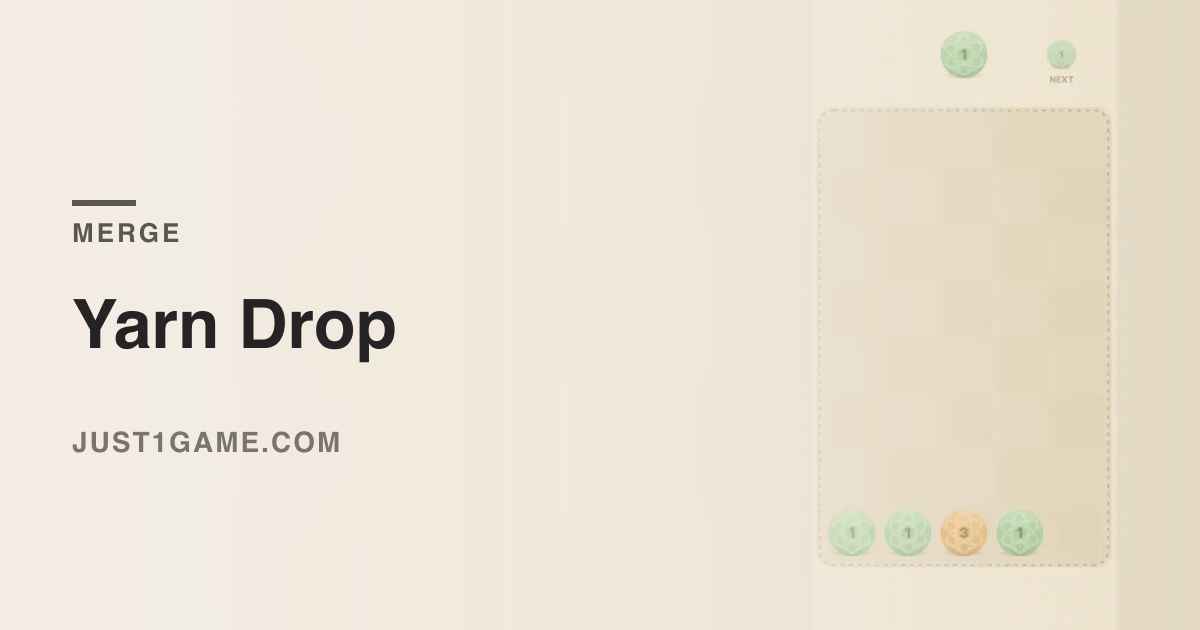
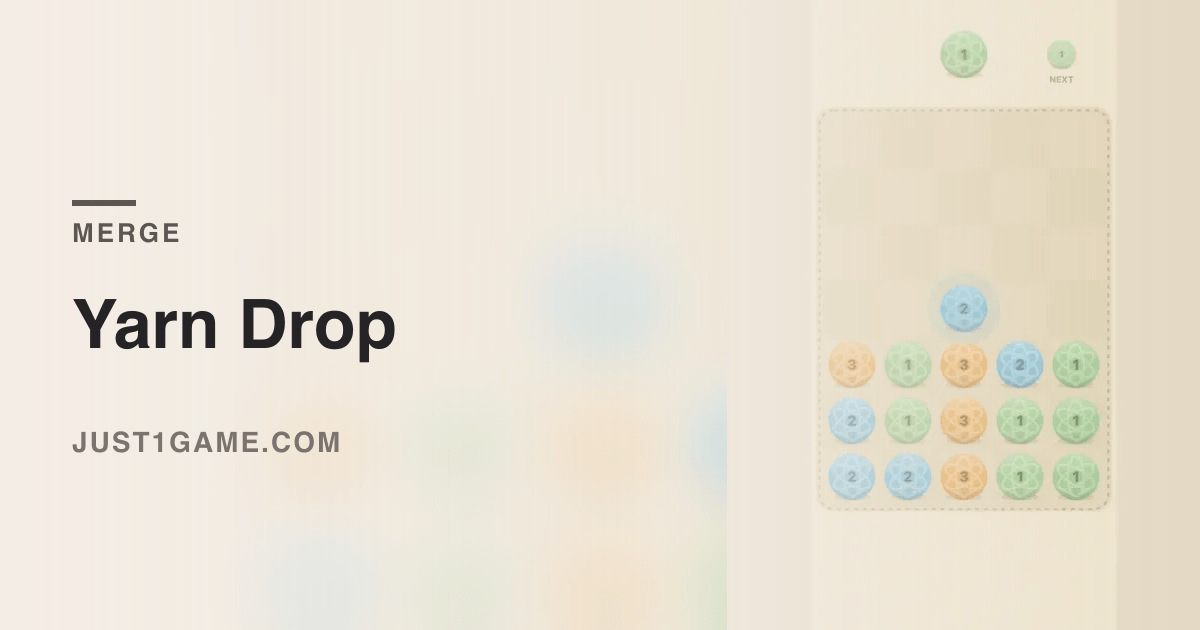
Give Yarn Drop a basket that looks like a game is happening in it
Eight rows meant the top two were almost never used, so the basket read as
mostly empty at every moment including the one the thumbnail captured. Seven
rows and three seeded rows instead of two.

The seed values were drawn from one and two, which laid down large groups of
the same number — the first tap collapsed the whole floor and handed the
player back the empty basket the seeding existed to avoid. Drawing from one
to three leaves an opening position that survives being played.

Claude-Session: https://claude.ai/code/session_016REG1S2ydo31u1TNooXeEh

Changed region(s): [[0.6783, 0.4524, 0.925, 0.9048]]

diff --git a/play/yarn-drop.html b/play/yarn-drop.html
@@ -55,7 +55,7 @@ const ctx = canvas.getContext('2d');
 const BAND = 390 / 806;
 let W = 0, H = 0, SW = 0, OX = 0;
 
-const COLS = 5, ROWS = 8;
+const COLS = 5, ROWS = 7;   // 8줄은 위쪽 두 줄이 거의 쓰이지 않아 바구니가 늘 비어 보였다
 // 단계마다 색. 커질수록 따뜻하고 진해진다 — 큰 뭉치가 화면에서 먼저 눈에 들어와야 한다.
 // 1단계부터 바탕과 확실히 구분돼야 한다. 처음에 크림색에 가까운 색을 두었더니
 // 1과 2가 바구니 바닥과 같아 보여서, 가장 자주 보는 두 단계가 가장 안 보였다.
@@ -155,9 +155,11 @@ const Sfx = (() => {
 /* ---------- 판 ---------- */
 function reset() {
   grid = Array.from({ length: ROWS }, () => Array(COLS).fill(0));
-  // 빈 바구니에서 시작하면 첫 다섯 수가 아무 판단도 아니다. 바닥에 두 줄 깔고 시작한다.
-  for (let r = ROWS - 2; r < ROWS; r++) {
-    for (let c = 0; c < COLS; c++) grid[r][c] = 1 + Math.floor(Math.random() * 2);
+  /* 빈 바구니에서 시작하면 첫 다섯 수가 아무 판단도 아니다. 바닥에 세 줄 깔고 시작한다.
+     값을 1~2로 좁게 두었더니 같은 값이 크게 뭉쳐 깔려서, 첫 탭 한 번에 바닥이 통째로
+     사라지고 다시 빈 바구니가 됐다. 1~3으로 벌리면 시작 판이 남아 있는다. */
+  for (let r = ROWS - 3; r < ROWS; r++) {
+    for (let c = 0; c < COLS; c++) grid[r][c] = 1 + Math.floor(Math.random() * 3);
   }
   cur = spawnValue(); next = spawnValue();
 }
